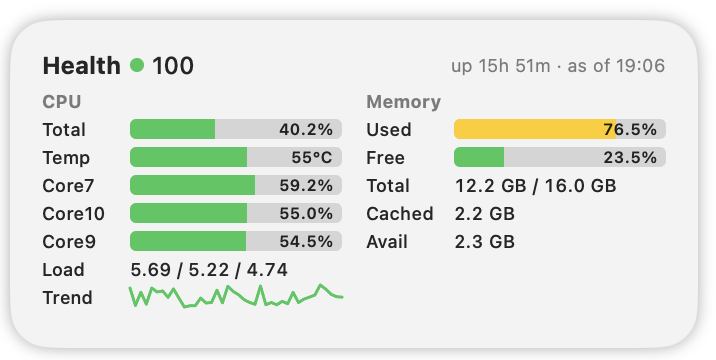
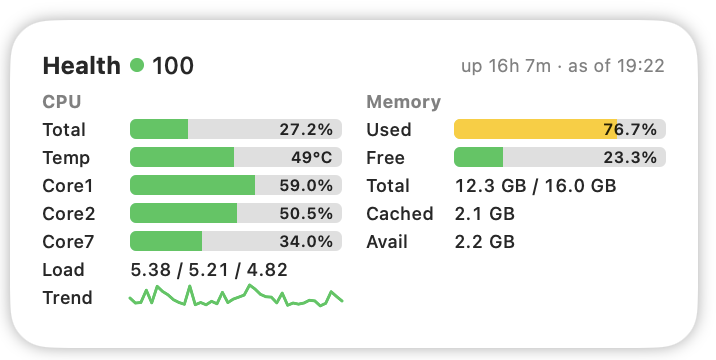
feat: Liquid Glass container background for the WidgetKit widget

diff --git a/Sources/MoleWidgetExtension/SystemStatusWidget.swift b/Sources/MoleWidgetExtension/SystemStatusWidget.swift
@@ -38,10 +38,23 @@ struct SystemStatusWidget: Widget {
             provider: SystemStatusProvider()
         ) { entry in
             SystemStatusView(snapshot: entry.snapshot)
-                .containerBackground(.fill.tertiary, for: .widget)
+                .containerBackground(for: .widget) { WidgetGlassBackground() }
         }
         .configurationDisplayName("Mole System Status")
         .description("CPU, memory and disk at a glance.")
         .supportedFamilies([.systemSmall, .systemMedium])
+    }
+}
+
+/// Liquid Glass widget background, matching the desktop panel
+/// (see WidgetBackground in WidgetRootView). Pre-macOS 26 fallback:
+/// a translucent material.
+private struct WidgetGlassBackground: View {
+    var body: some View {
+        if #available(macOS 26, *) {
+            Color.clear.glassEffect(.regular, in: .rect)
+        } else {
+            Rectangle().fill(.regularMaterial)
+        }
     }
 }
